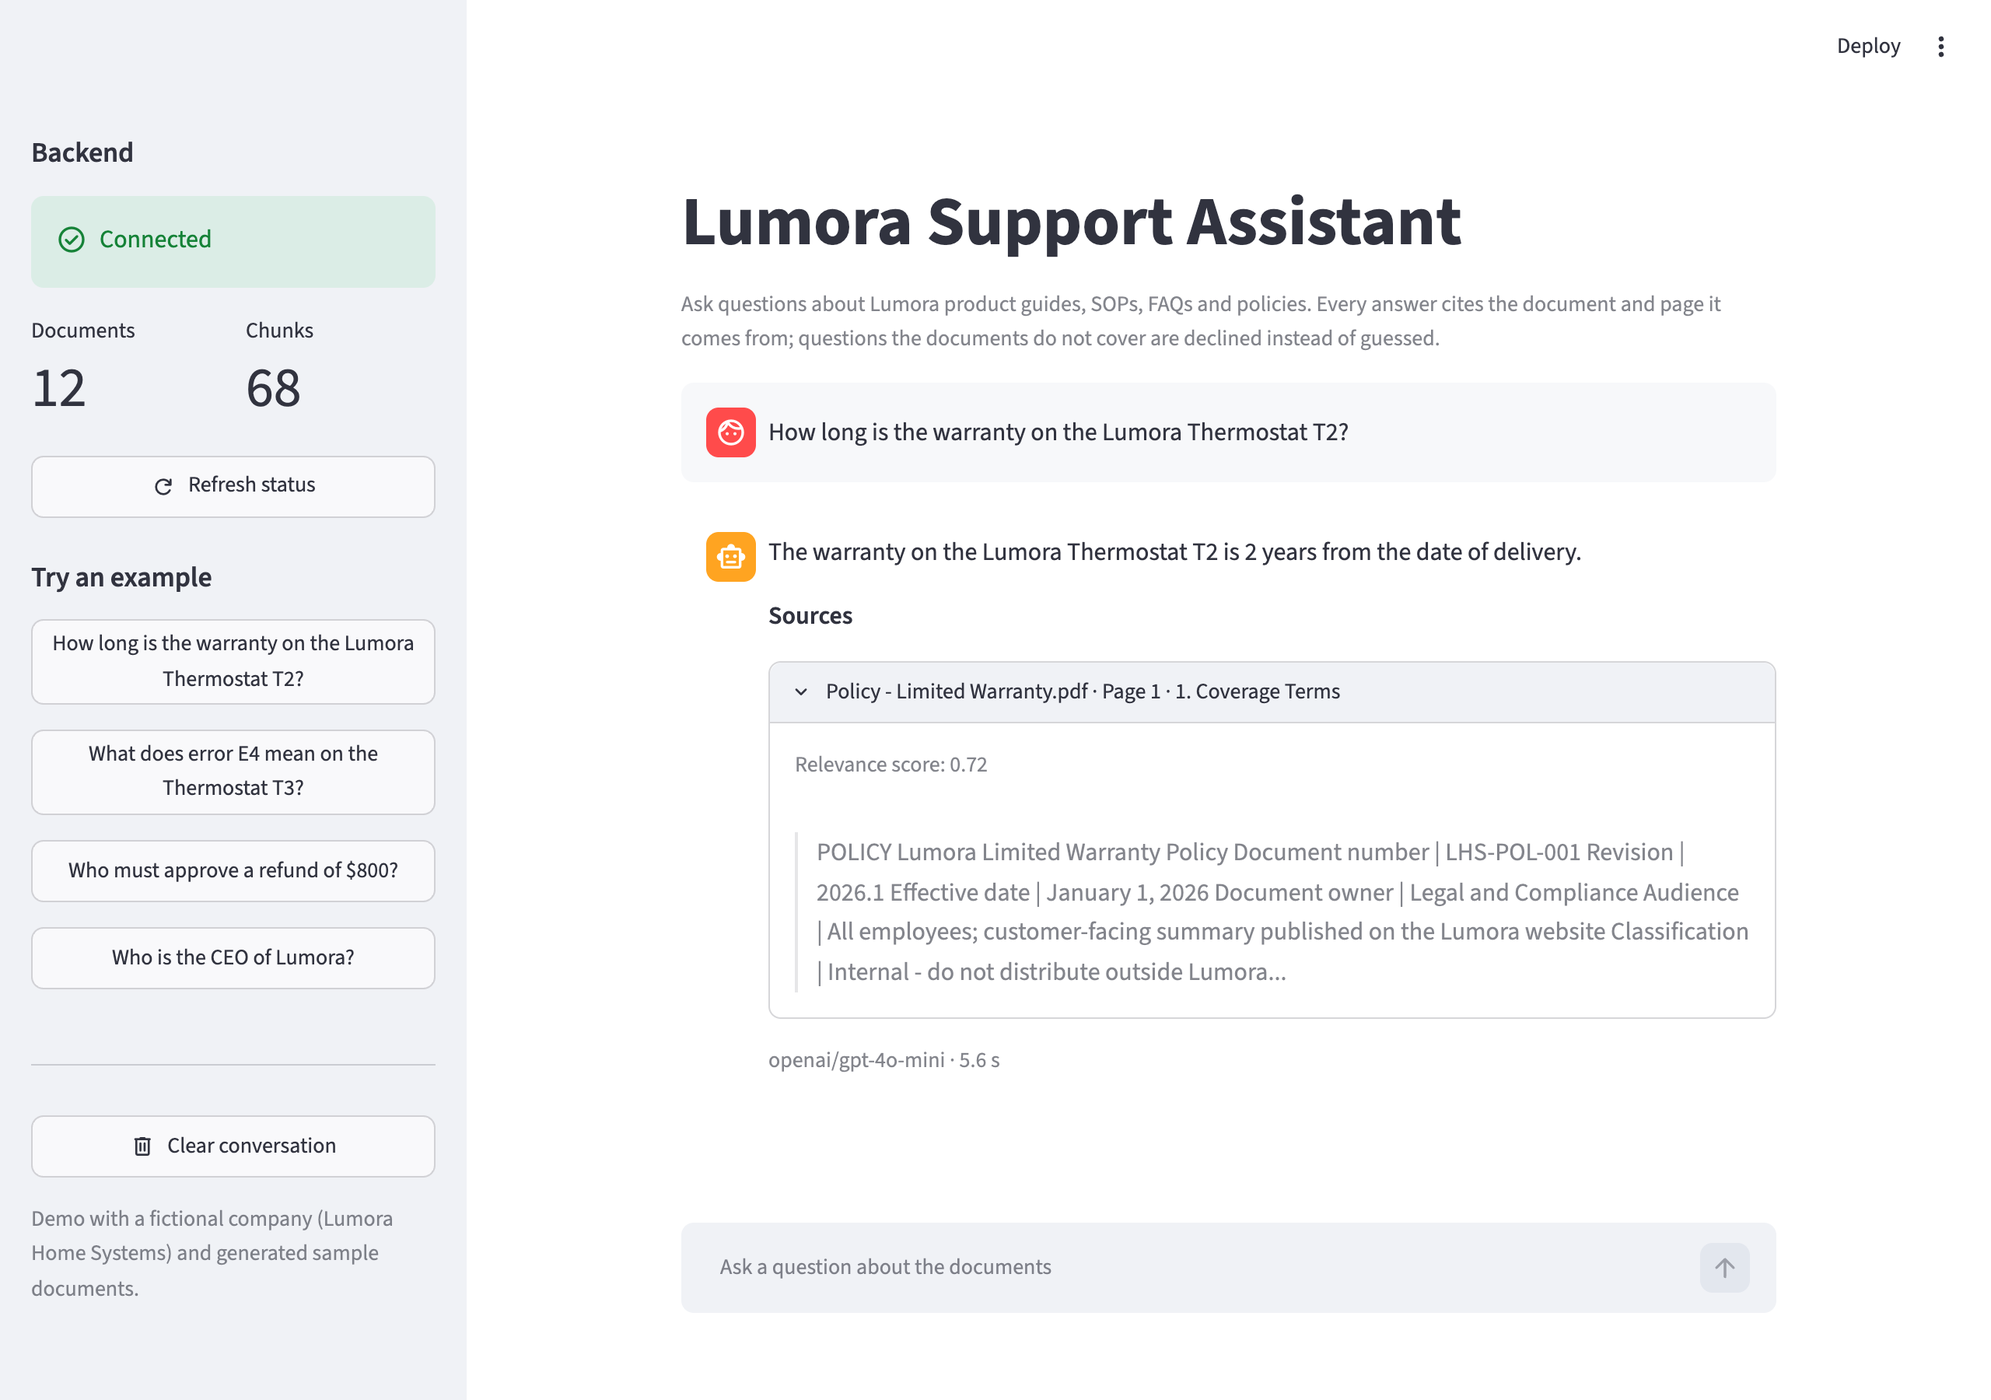
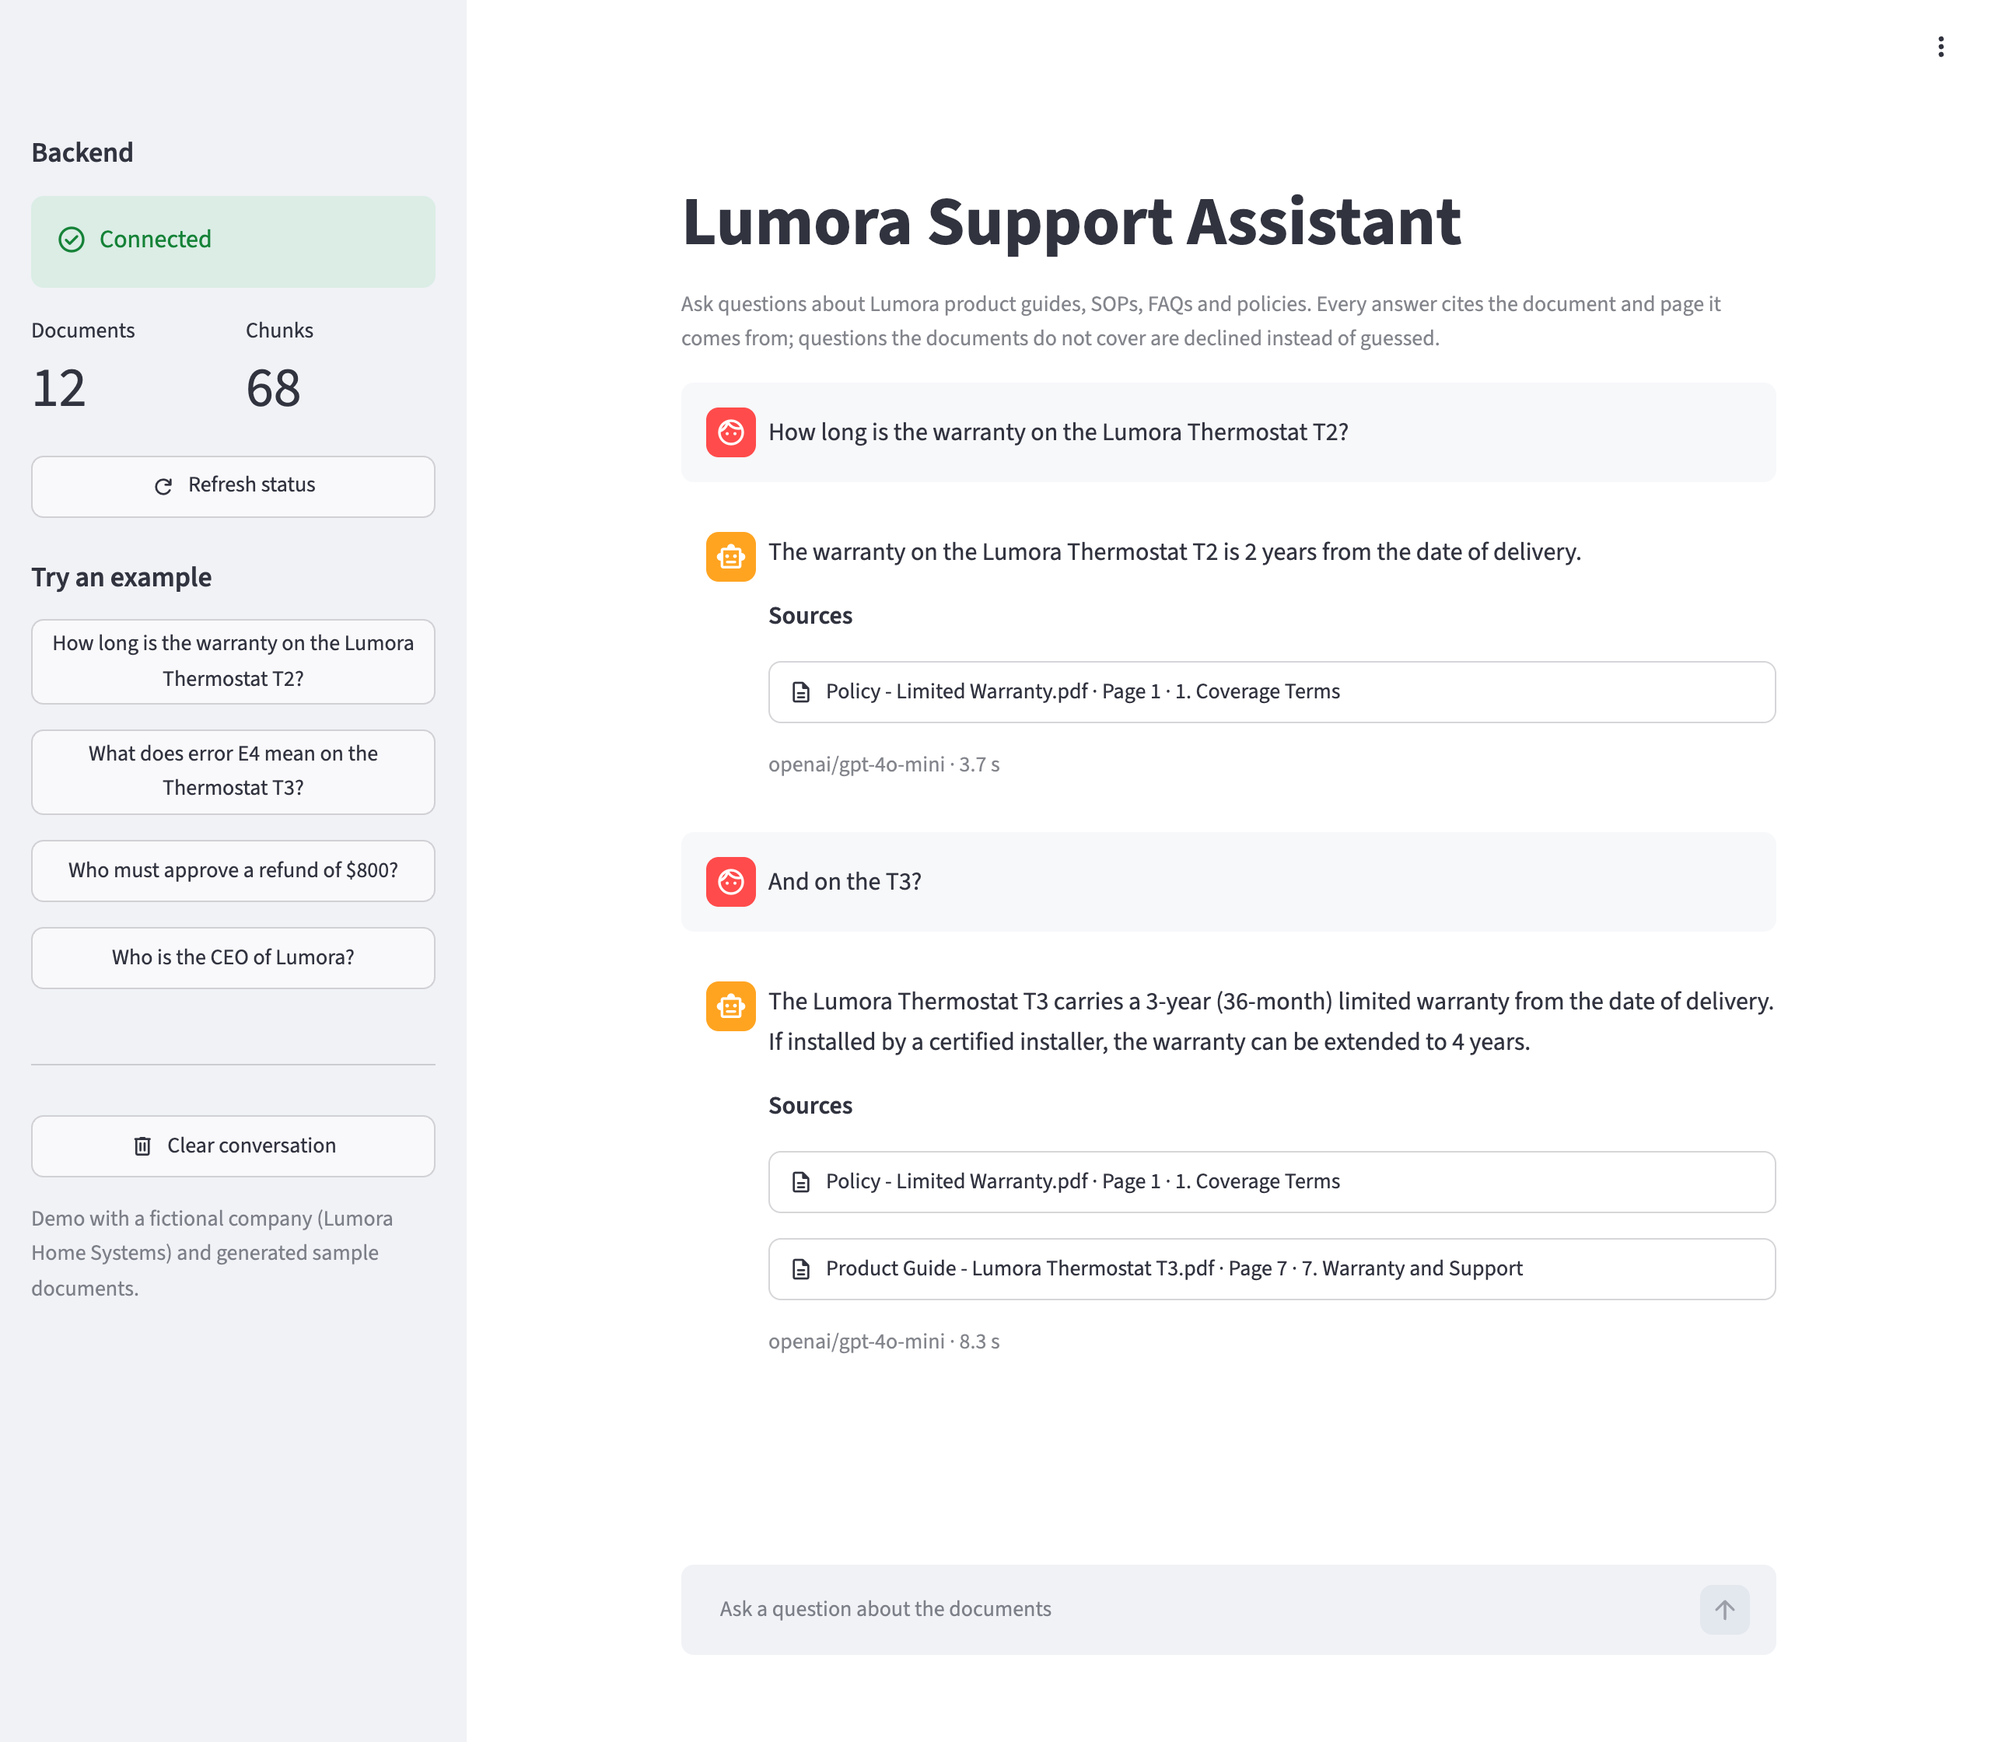
P9: end-to-end polish, screenshots, Loom script, limitations
- Accept lowercase LOG_LEVEL values
- Use message text for the follow-up rewrite (content blocks no longer leak a repr)
- Publish the API on 127.0.0.1 only in docker compose
- Hide the Streamlit Deploy toolbar in the UI image and make ui
- Add citation, refusal and evaluation report screenshots
- Add docs/LOOM_SCRIPT.md demo script
- README: screenshots, provider note in quick start, limitations and next steps

diff --git a/tests/test_rag_chain.py b/tests/test_rag_chain.py
@@ -46,7 +46,9 @@ class FakeLLM:
     """Stands in for ChatOpenAI: records prompts and returns canned outputs."""
 
     def __init__(
-        self, answer: LLMAnswer | dict[str, Any] | None = None, rewrite: str = "rewritten"
+        self,
+        answer: LLMAnswer | dict[str, Any] | None = None,
+        rewrite: str | list[Any] = "rewritten",
     ) -> None:
         self.answer = answer
         self.rewrite = rewrite
@@ -411,6 +413,19 @@ def test_empty_rewrite_falls_back_to_original_question(
     )
 
     assert queries == ["And the T3?"]
+
+
+def test_rewrite_with_content_blocks_uses_their_text(
+    settings: Settings, fake_retrieve: Any
+) -> None:
+    queries = fake_retrieve([])
+    llm = FakeLLM(rewrite=[{"type": "text", "text": "What is the T3 warranty?"}])
+
+    answer_question(
+        "And the T3?", [{"role": "user", "content": "T2 warranty?"}], settings=settings, llm=llm
+    )
+
+    assert queries == ["What is the T3 warranty?"]
 
 
 def test_history_is_truncated_to_last_turns(settings: Settings, fake_retrieve: Any) -> None:

diff --git a/app/config.py b/app/config.py
@@ -90,6 +90,14 @@ class Settings(BaseSettings):
             return None
         return value
 
+    @field_validator("log_level", mode="before")
+    @classmethod
+    def _upper_log_level(cls, value: object) -> object:
+        # Accept LOG_LEVEL=info as well as LOG_LEVEL=INFO.
+        if isinstance(value, str):
+            return value.strip().upper()
+        return value
+
     @model_validator(mode="after")
     def _check_chunk_overlap(self) -> "Settings":
         if self.chunk_overlap_tokens >= self.chunk_size_tokens:

diff --git a/tests/test_config.py b/tests/test_config.py
@@ -33,6 +33,15 @@ def test_settings_load_without_env_file_or_api_key(clean_env: Path) -> None:
     assert settings.log_level == "INFO"
 
 
+@pytest.mark.parametrize("value", ["debug", " Warning "])
+def test_log_level_is_case_insensitive(
+    clean_env: Path, monkeypatch: pytest.MonkeyPatch, value: str
+) -> None:
+    monkeypatch.setenv("LOG_LEVEL", value)
+
+    assert Settings().log_level == value.strip().upper()
+
+
 def test_get_settings_is_cached(clean_env: Path) -> None:
     assert get_settings() is get_settings()
 

diff --git a/app/rag/chain.py b/app/rag/chain.py
@@ -110,7 +110,7 @@ def _rewrite_question(question: str, history: Sequence[HistoryMessage], llm: Bas
         return question
     messages = REWRITE_PROMPT.format_messages(history=_format_history(history), question=question)
     reply = llm.invoke(messages)
-    rewritten = _WHITESPACE.sub(" ", str(reply.content)).strip()
+    rewritten = _WHITESPACE.sub(" ", reply.text).strip()
     if not rewritten:
         logger.warning("question rewrite returned empty output; using the original question")
         return question

diff --git a/docs/LOOM_SCRIPT.md b/docs/LOOM_SCRIPT.md
@@ -1,0 +1,131 @@
+# Loom demo script (3-5 minutes)
+
+A walkthrough of the RAG Document Assistant for a client who needs a chatbot over their
+internal PDFs (SOPs, product guides, FAQs). Target length: about 4 minutes. Spoken lines are
+in quotes; actions are in brackets.
+
+## Before recording
+
+- [ ] `docker compose up -d --build` and `docker compose run --rm api python -m app.ingestion.pipeline`
+      have been run; `curl http://localhost:8080/health` shows `"chunk_count":68`.
+- [ ] Ask one warm-up question so the first answer in the video is fast.
+- [ ] Browser tabs, in order:
+  1. The UI: <http://localhost:8501> (click "Clear conversation" first)
+  2. `data/pdfs/Policy - Limited Warranty.pdf`, page 1
+  3. The code editor with the repository open (`app/` expanded)
+  4. `eval/reports/summary.md` (rendered, e.g. on GitHub or in the editor preview)
+  5. `README.md`, scrolled to "Quick start (Docker)"
+- [ ] Hide bookmarks, notifications and any terminal that shows `.env`. Never show the API key.
+- [ ] Screen at 1280x800 or larger, browser zoom 110% so the text is readable.
+
+## 1. The problem (0:00-0:30)
+
+[UI tab, empty conversation]
+
+"Hi, I'm Eric. Your support team answers questions from a few dozen PDFs: product guides,
+SOPs and FAQs. Searching them by hand is slow, and a generic chatbot will happily make up an
+answer. So I built a small assistant that answers only from your documents, shows the exact
+document and page for every answer, and says so when the documents don't cover a question.
+
+This demo runs on twelve PDFs of a fictional smart-home company, Lumora, about 63 pages.
+Everything you see runs locally with one `docker compose` command."
+
+## 2. A normal answer with citations (0:30-1:30)
+
+[Click the example "Who must approve a refund of $800?"]
+
+"Let's ask a typical agent question: who must approve a refund of 800 dollars?"
+
+[Wait for the answer. Expand both sources.]
+
+"The answer is a Team Lead, within four business hours. Below it are the sources: the
+Returns and Refunds SOP, page 4, section 4.1, with the passage the answer came from and a
+relevance score. The model never writes the citation itself: it only returns the IDs of the
+passages it used, and the code turns those into document and page. So a citation can't point
+to a page that doesn't exist."
+
+[Type: "How long is the warranty on the Lumora Thermostat T2?" Then: "And on the T3?"]
+
+"Follow-up questions work too. 'And on the T3?' is rewritten into a full question using the
+chat history, and the answer cites both the warranty policy and the T3 product guide."
+
+[Optional, 10 seconds: switch to the warranty PDF tab, page 1, point at the coverage terms.]
+
+"Here is that page in the original PDF, so an agent can verify it in one click."
+
+## 3. Declining instead of guessing (1:30-2:05)
+
+[Click the example "Who is the CEO of Lumora?"]
+
+"Now something the documents don't say: who is the CEO? The assistant declines with a
+fixed message instead of inventing a name. There are three layers behind this: passages
+below a relevance threshold are dropped before the model is called, the model must return a
+structured 'is answerable' flag, and an answer that claims to be answerable but cites no
+valid passage is turned into a refusal by the code."
+
+## 4. Quick tour of the code (2:05-2:55)
+
+[Editor tab, `app/` expanded; click each folder as you mention it]
+
+"The code is plain Python with LangChain, and it is organized the way the data flows.
+
+- `ingestion` reads the PDFs page by page with PyMuPDF, splits them into token-sized chunks
+  and stores metadata: file name, page, section. Re-running it is incremental, so unchanged
+  files cost nothing.
+- `retrieval` wraps the Chroma vector database and applies the relevance threshold.
+- `rag/chain.py` has one entry point, `answer_question`: rewrite the follow-up, retrieve,
+  ask the model for a structured answer, build the citations.
+- `api` is a FastAPI service with `/chat`, `/health` and an admin `/ingest`; the Streamlit UI
+  is just a client of that API, so you can plug the same backend into Slack, Zendesk or your
+  intranet.
+
+All settings, including the model and the endpoint, come from one `.env` file. It works with
+OpenAI or any OpenAI-compatible endpoint such as OpenRouter."
+
+## 5. Evaluation results (2:55-3:35)
+
+[Summary tab, scroll from "Bottom line" to the "Scorecard" table]
+
+"I don't want you to take quality on trust, so there is an evaluation: 20 questions with
+known answers, including five that the documents don't cover. All four targets are met:
+94% faithfulness measured with RAGAS, the correct document and page cited for every
+in-scope question, every out-of-scope question declined, and no in-scope question wrongly
+declined. An answer takes about three seconds and costs about four hundredths of a cent.
+
+[Scroll to "Tuning"]
+
+I also tested 40 combinations of chunk size, number of passages and threshold, and the
+report explains the trade-offs in plain language. With your documents, I'd write 15 to 20
+questions together with your team and re-run exactly this."
+
+## 6. Deployment and next steps (3:35-4:15)
+
+[README tab, "Quick start (Docker)"]
+
+"Running it is three steps: copy the example settings and add your key, `docker compose
+up`, run the ingestion. The index lives in a Docker volume and survives restarts. The README
+covers deploying on a small VPS behind HTTPS with a password, how to add your own PDFs, the
+API, costs, and how to switch to Qdrant or pgvector.
+
+For your project, the work is mostly swapping in your documents, tuning on your questions
+and deploying. I'd plan it like this:
+
+- Day 1: ingest your PDFs, check parsing quality, agree on the evaluation questions.
+- Day 2: retrieval, citations and refusals tuned on your data; you get sample answers.
+- Day 3: API and chat UI on a staging link you can try.
+- Day 4: evaluation run, fixes for failing questions, before/after report.
+- Day 5: Docker setup, README and handover to your repository, plus a walkthrough video.
+
+Thanks for watching. I'm happy to run this on a couple of your real documents first."
+
+[Stop recording]
+
+## Fallbacks during recording
+
+- An answer takes more than 10 seconds: keep talking about the citation design, then cut the
+  pause in the Loom editor.
+- The sidebar shows "Backend unreachable" or "The index is empty": check
+  `docker compose ps` and `docker compose logs api`; usually the stack was not started or the
+  ingestion was not run (`docker compose run --rm api python -m app.ingestion.pipeline`).
+- A refusal for an in-scope question: re-ask once; mention that refusals are measured in the
+  evaluation (0% false refusals on the test set).

diff --git a/README.md b/README.md
@@ -22,6 +22,16 @@ FAQs and a warranty policy, about 63 pages in total.
 - **One command to run.** `docker compose up` starts the vector database, the API and the
   chat UI; data persists across restarts.
 
+## Screenshots
+
+| Citations, expanded | Declining an out-of-scope question |
+|---|---|
+| ![Answer to "Who must approve a refund of $800?" with both cited passages expanded, showing document, page, section, relevance score and the quoted text](docs/images/citations.png) | ![The assistant declines "Who is the CEO of Lumora?" because the documents do not cover it](docs/images/refusal.png) |
+
+The evaluation report (excerpt of [eval/reports/summary.md](eval/reports/summary.md)):
+
+![Evaluation summary: bottom line and scorecard with faithfulness 0.94, citation hit rate 100%, out-of-scope refusal 100%, false refusals 0%](docs/images/eval-report.png)
+
 ## Contents
 
 - [Architecture](#architecture)
@@ -36,6 +46,7 @@ FAQs and a warranty policy, about 63 pages in total.
 - [Switching the vector database](#switching-the-vector-database)
 - [Cost estimate](#cost-estimate)
 - [Project layout](#project-layout)
+- [Limitations and next steps](#limitations-and-next-steps)
 
 ## Architecture
 
@@ -69,7 +80,7 @@ Services in `docker-compose.yml`:
 | Service | Image | Port | Purpose |
 |---|---|---|---|
 | `chroma` | `chromadb/chroma:1.5.9` | internal only | Vector database; data in the `chroma_data` volume |
-| `api` | built from `docker/api.Dockerfile` | 8080 | FastAPI backend (`/chat`, `/health`, `/ingest`, `/docs`); also runs ingestion |
+| `api` | built from `docker/api.Dockerfile` | 8080 (localhost only) | FastAPI backend (`/chat`, `/health`, `/ingest`, `/docs`); also runs ingestion |
 | `ui` | built from `docker/ui.Dockerfile` | 8501 | Streamlit chat UI; talks to the API over HTTP |
 
 ## Quick start (Docker)
@@ -87,6 +98,11 @@ cd rag-document-assistant
 cp .env.example .env
 # edit .env and set OPENAI_API_KEY=sk-...
 ```
+
+Using OpenRouter or another OpenAI-compatible provider? Also set `OPENAI_BASE_URL` and the
+model names in `.env` (see [Configuration](#configuration)); for OpenRouter that is
+`OPENAI_BASE_URL=https://openrouter.ai/api/v1`, `OPENAI_CHAT_MODEL=openai/gpt-4o-mini` and
+`OPENAI_EMBEDDING_MODEL=openai/text-embedding-3-small`.
 
 **2. Start the stack** (the first build takes a few minutes):
 
@@ -360,8 +376,10 @@ assistant.example.com {
 
 Recommendations for a public deployment:
 
-- Only expose the UI (through the proxy). Keep the API private by publishing it on
-  localhost only: in `docker-compose.yml` change the API port to `"127.0.0.1:8080:8080"`.
+- Only expose the UI (through the proxy). The API is already published on `127.0.0.1`
+  only (`/chat` has no authentication and spends API credits); the UI reaches it over the
+  internal compose network. To call the API from other machines, put it behind the proxy
+  with authentication rather than changing the port binding.
 - Protect the UI with a password (basic auth above) or your SSO, and set a monthly usage
   limit on the OpenAI key.
 - All services use `restart: unless-stopped`, so they come back after a reboot; the index
@@ -438,3 +456,36 @@ tests/                   unit tests (pytest; OpenAI is mocked)
 docker/                  api.Dockerfile, ui.Dockerfile
 docker-compose.yml       chroma + api + ui
 ```
+
+## Limitations and next steps
+
+Known limitations of this demo, and what a production rollout would add:
+
+- **Tables that span two pages.** Chunks never cross a page boundary, so a table that
+  continues on the next page is split in two. In the evaluation this occasionally drops a
+  row from an answer (CP-03) or cites the continuation page instead of the first page.
+  Next step: table-aware chunking that merges a table across pages.
+- **Scanned PDFs.** Pages without a text layer are skipped and reported; scanned documents
+  need OCR (e.g. Tesseract or a cloud OCR service) before ingestion.
+- **Re-indexing after a settings change.** Incremental ingestion compares file hashes and
+  chunk IDs, so after changing the chunk size, the overlap or the embedding model run the
+  ingestion with `--reset`.
+- **Short chunks near the threshold.** Some correct passages score just above the 0.35
+  relevance threshold (about 0.36-0.41). Raising the threshold for a new document set should
+  always be validated with `make eval`, otherwise in-scope questions start being declined.
+- **Evaluation judge.** RAGAS faithfulness is judged by the same small model by default
+  (`gpt-4o-mini`) and occasionally flags a correct answer (SF-09). Use a stronger judge with
+  `python -m eval.run_eval --judge-model <model>` for sign-off runs.
+- **Authentication.** The UI and `/chat` have no user accounts. Public deployments should
+  sit behind a password or SSO proxy (see [Deployment](#deployment)) with a spending limit on
+  the API key; per-user rate limiting is a natural next step.
+- **Image size.** The API image (about 1.2 GB) includes the full `chromadb` package, which
+  also supports the local mode. A slimmer image could use `chromadb-client` for the Docker
+  setup.
+- **Hyphenated line breaks.** A compound word broken at a line end with its own hyphen
+  (`self-` / `service`) is joined as `selfservice`; this does not occur in the sample
+  documents.
+
+Possible extensions: streaming answers, hybrid search (BM25 + vectors) and a reranker for
+large document sets, per-document access control, feedback buttons in the UI, and a
+scheduled ingestion job that watches a shared drive or S3 bucket.
